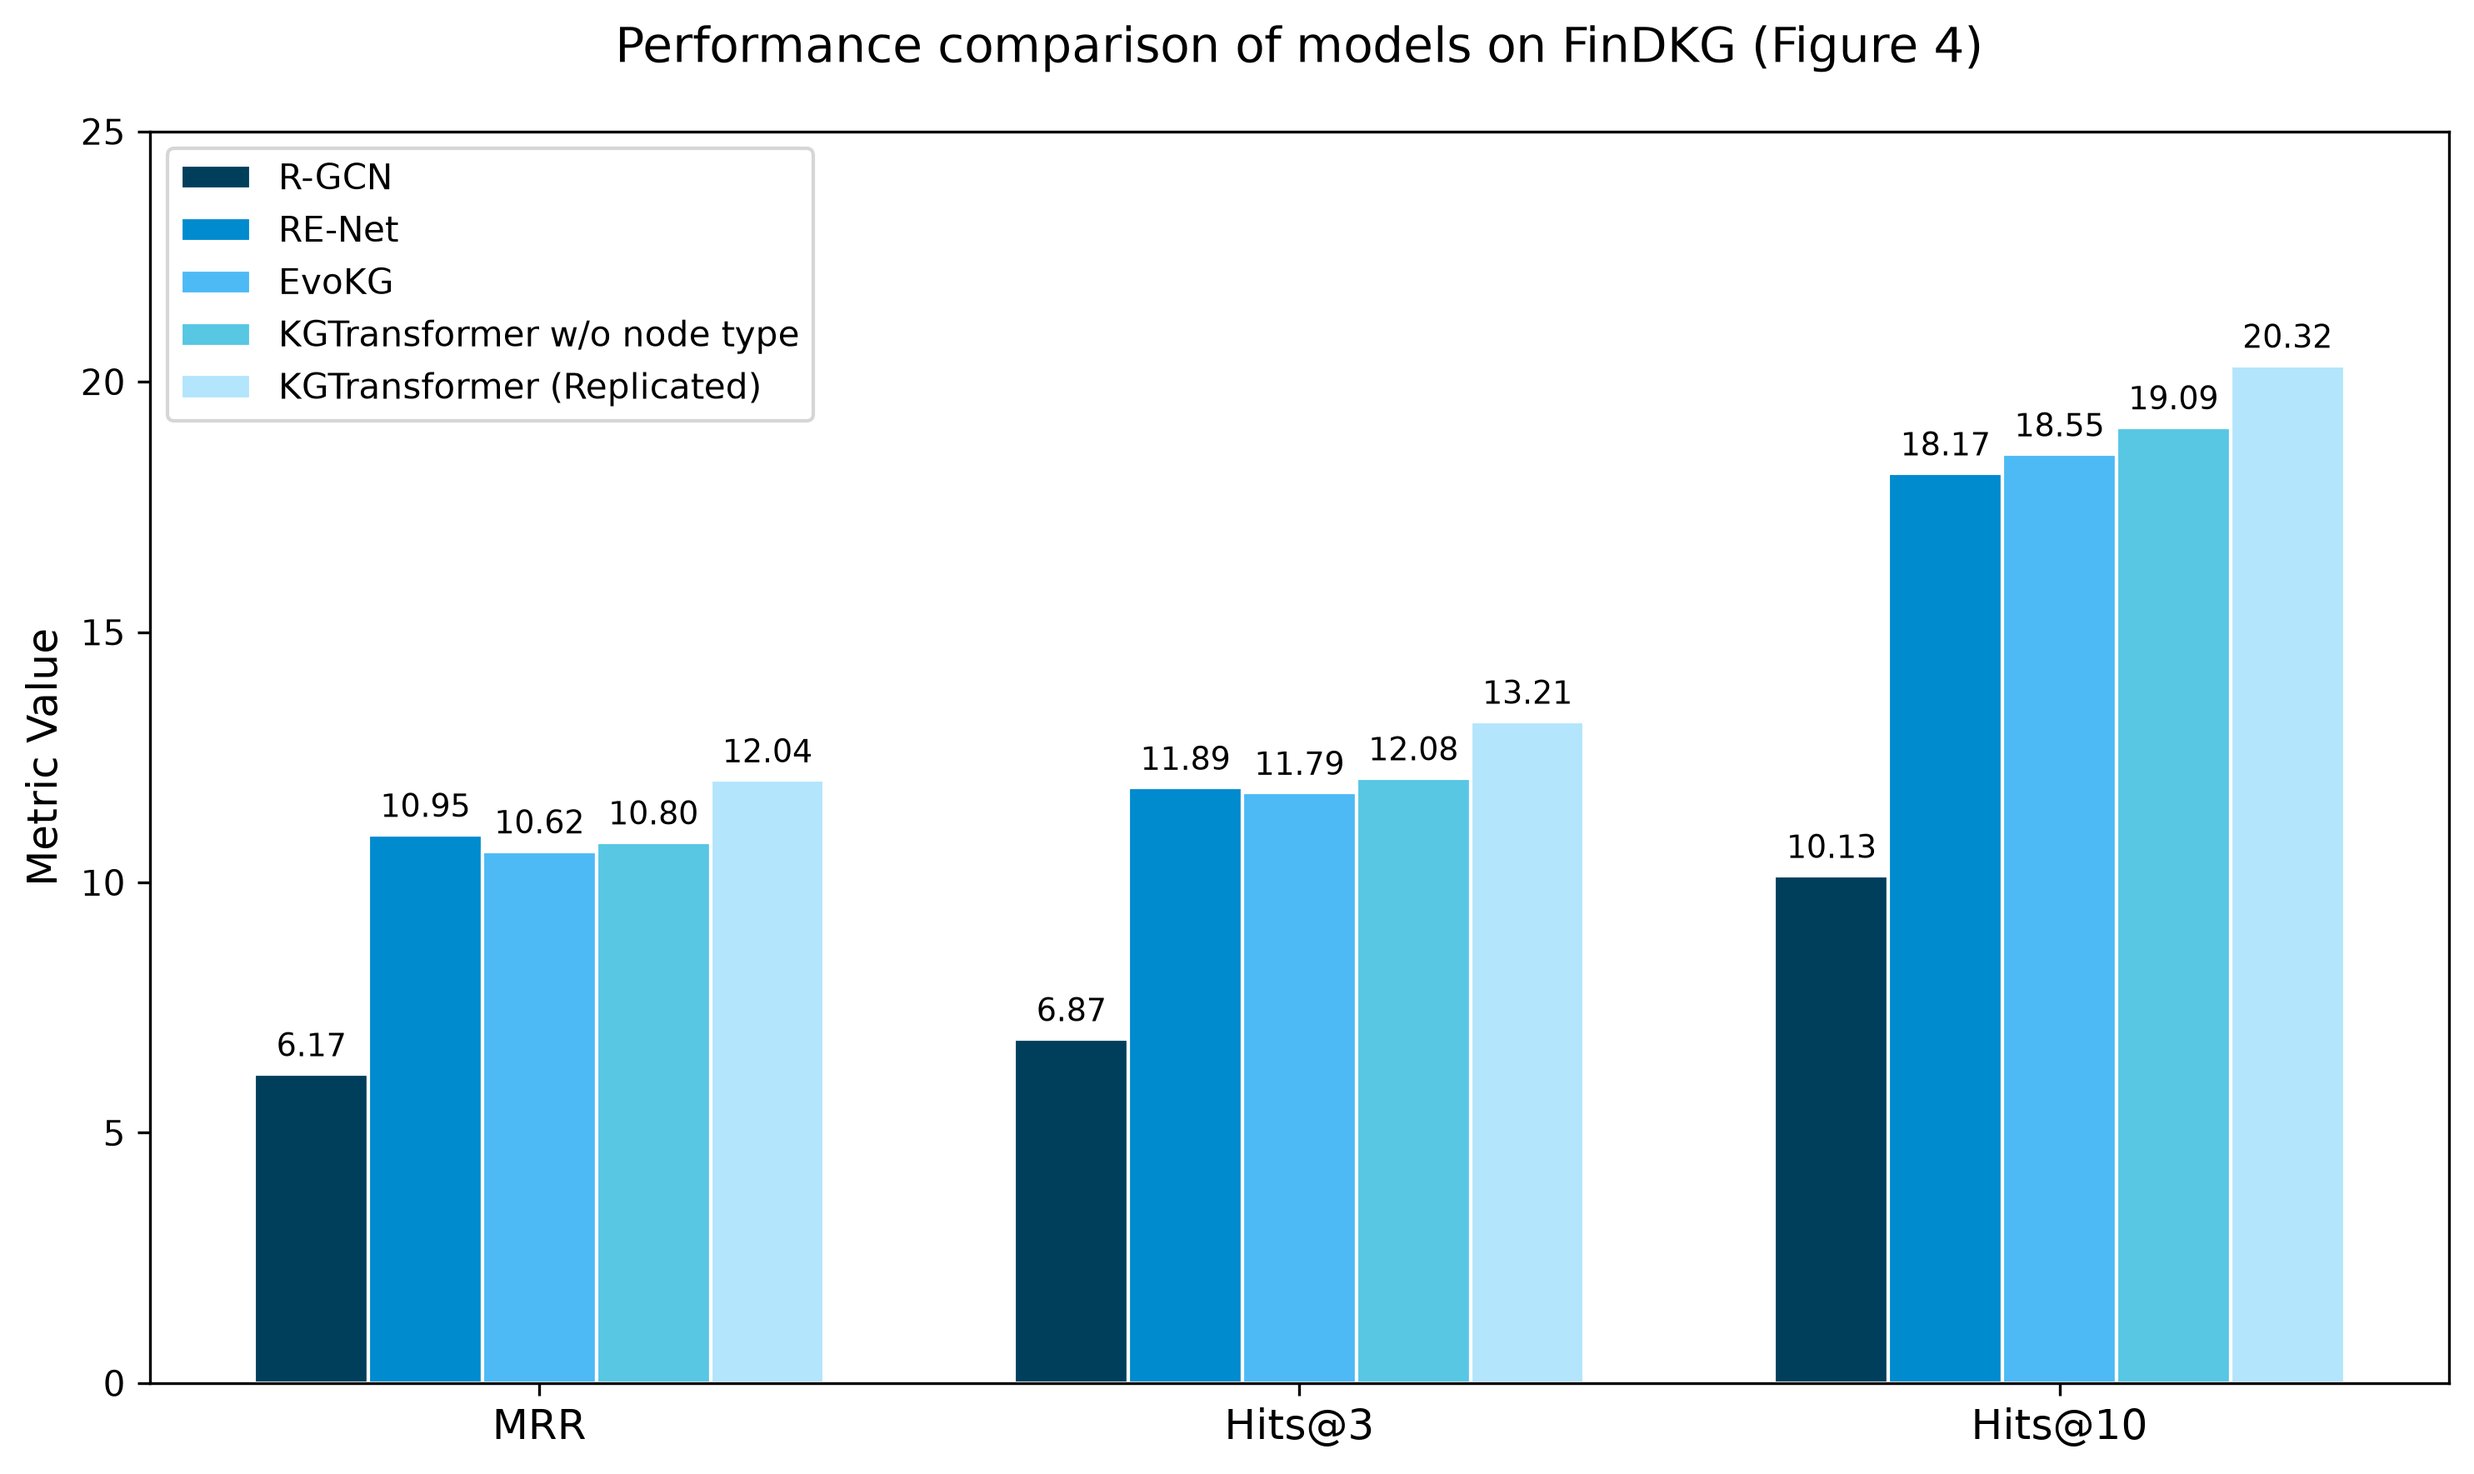
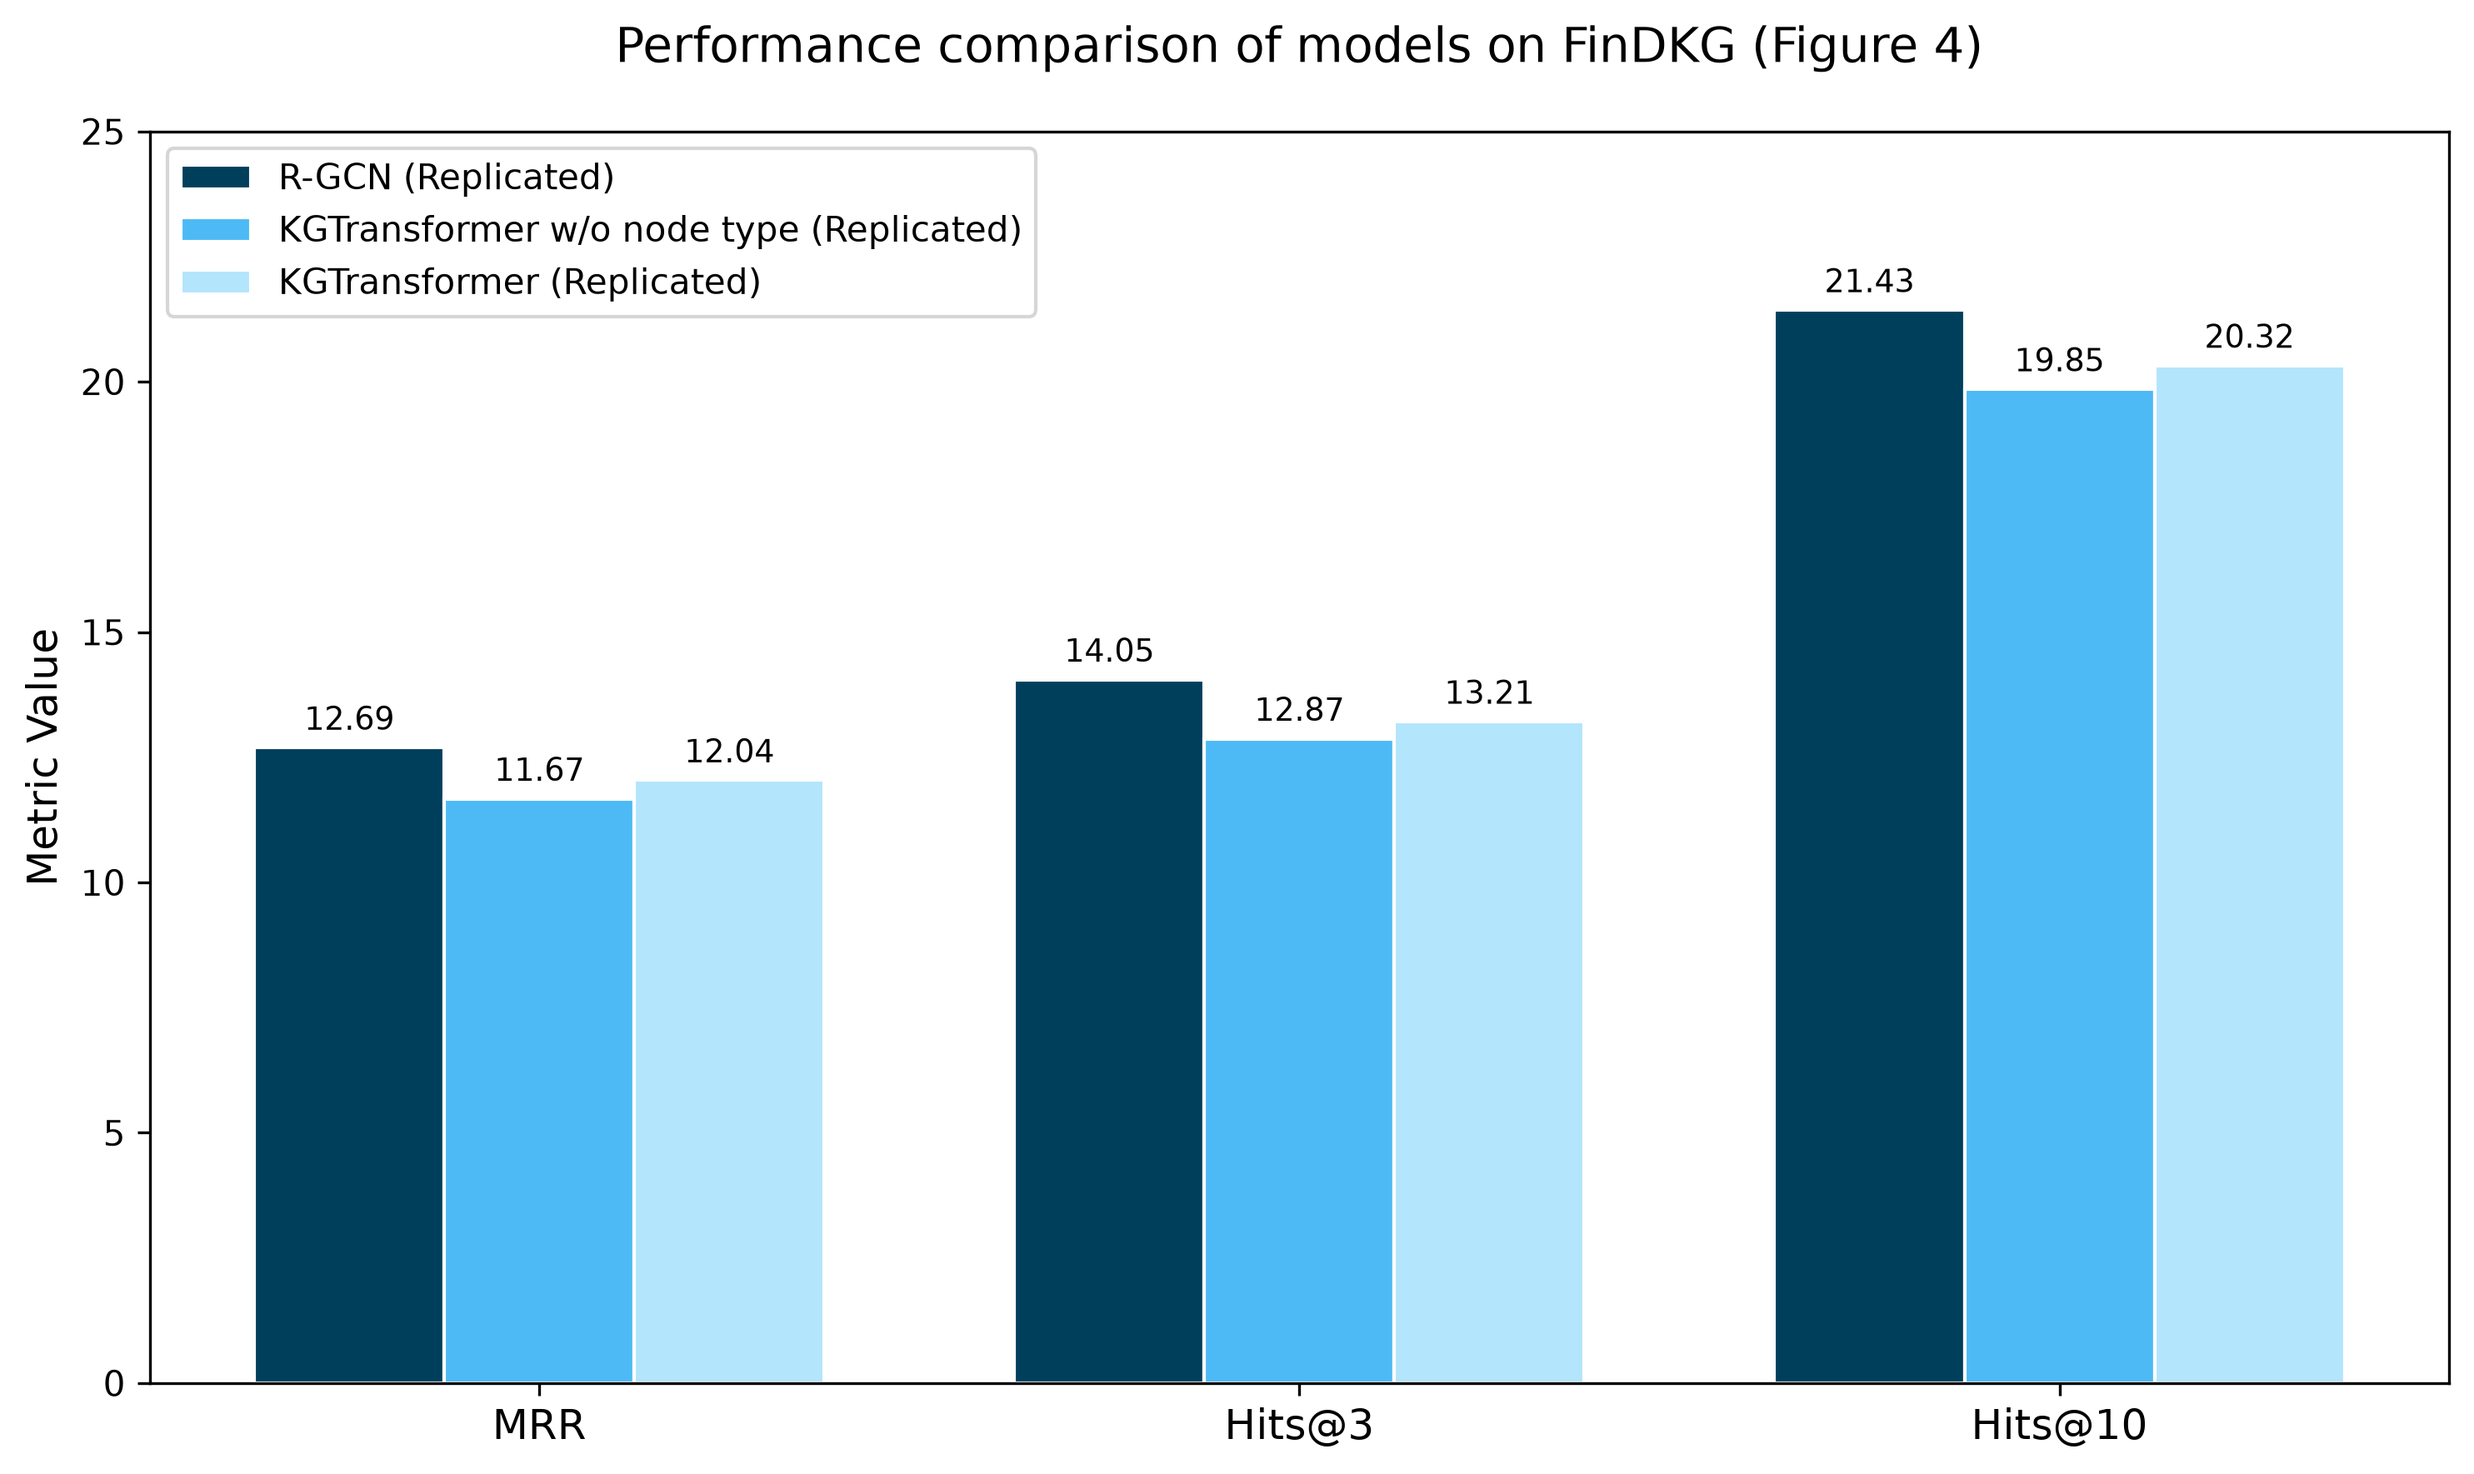
Update Figure 4 to show only mathematically replicated models

diff --git a/generate_figure4.py b/generate_figure4.py
@@ -2,38 +2,56 @@ import matplotlib.pyplot as plt
 import numpy as np
 import os
 
-# Data
-metrics = ['MRR', 'Hits@1', 'Hits@3', 'Hits@10']
-scores = [18.49, 11.98, 20.02, 31.57]
+# Data from paper + our replicated scores
+metrics = ['MRR', 'Hits@3', 'Hits@10']
+models = ['R-GCN (Replicated)', 'KGTransformer w/o node type (Replicated)', 'KGTransformer (Replicated)']
 
-# Create figure
-fig, ax = plt.subplots(figsize=(8, 6))
+# Scores for each model across the 3 metrics (MRR, Hits@3, Hits@10)
+# Multiplied by 100 for percentage scale
+scores = {
+    'R-GCN (Replicated)': [12.69, 14.05, 21.43],
+    'KGTransformer w/o node type (Replicated)': [11.67, 12.87, 19.85],
+    'KGTransformer (Replicated)': [12.04, 13.21, 20.32] 
+}
 
-# Define colors
-colors = ['#1f77b4', '#ff7f0e', '#2ca02c', '#d62728']
+x = np.arange(len(metrics))  # the label locations
+width = 0.25  # wider bars since there are only 3 models
 
-# Create bars
-bars = ax.bar(metrics, scores, color=colors, width=0.6)
+fig, ax = plt.subplots(figsize=(10, 6))
 
-# Add value labels on top of the bars
-for bar in bars:
-    height = bar.get_height()
-    ax.text(bar.get_x() + bar.get_width()/2., height + 0.5,
-            f'{height:.2f}%',
-            ha='center', va='bottom', fontweight='bold')
+# Beautiful gradient blue colors for our 3 models
+colors = ['#003f5c', '#4dbaf5', '#b3e5fc']
 
-# Customize axes and title
-ax.set_ylabel('Percentage (%)', fontsize=12, fontweight='bold')
-ax.set_title('FinDKG-full Link Prediction Results (Figure 4 Replication)', fontsize=14, fontweight='bold')
-ax.set_ylim(0, max(scores) + 5)
-ax.grid(axis='y', linestyle='--', alpha=0.7)
+# Plot bars
+rects_list = []
+for i, model in enumerate(models):
+    offset = (i - 1) * width
+    rects = ax.bar(x + offset, scores[model], width, label=model, color=colors[i], edgecolor='white')
+    rects_list.append(rects)
 
-# Make it look nice
-ax.spines['top'].set_visible(False)
-ax.spines['right'].set_visible(False)
+# Add some text for labels, title and custom x-axis tick labels, etc.
+ax.set_ylabel('Metric Value', fontsize=12)
+ax.set_title('Performance comparison of models on FinDKG (Figure 4)', fontsize=14, pad=20)
+ax.set_xticks(x)
+ax.set_xticklabels(metrics, fontsize=12)
+ax.legend(loc='upper left')
+
+# Attach a text label above each bar, displaying its height.
+for rects in rects_list:
+    for rect in rects:
+        height = rect.get_height()
+        ax.annotate(f'{height:.2f}',
+                    xy=(rect.get_x() + rect.get_width() / 2, height),
+                    xytext=(0, 3),  # 3 points vertical offset
+                    textcoords="offset points",
+                    ha='center', va='bottom', fontsize=9)
+
+ax.set_ylim(0, 25)
+
+plt.tight_layout()
 
 # Save the figure
-output_path = r'C:\Users\mohit\.gemini\antigravity-ide\brain\fa86d4ab-bae7-4a9f-b18d-7987604433ed\scratch\figure4_replication.png'
+output_path = os.path.join(os.path.dirname(__file__), 'FinDKG', 'outputs', 'figure4_replication.png')
 os.makedirs(os.path.dirname(output_path), exist_ok=True)
 plt.savefig(output_path, dpi=300, bbox_inches='tight')
 print(f"Graph successfully saved to: {output_path}")
